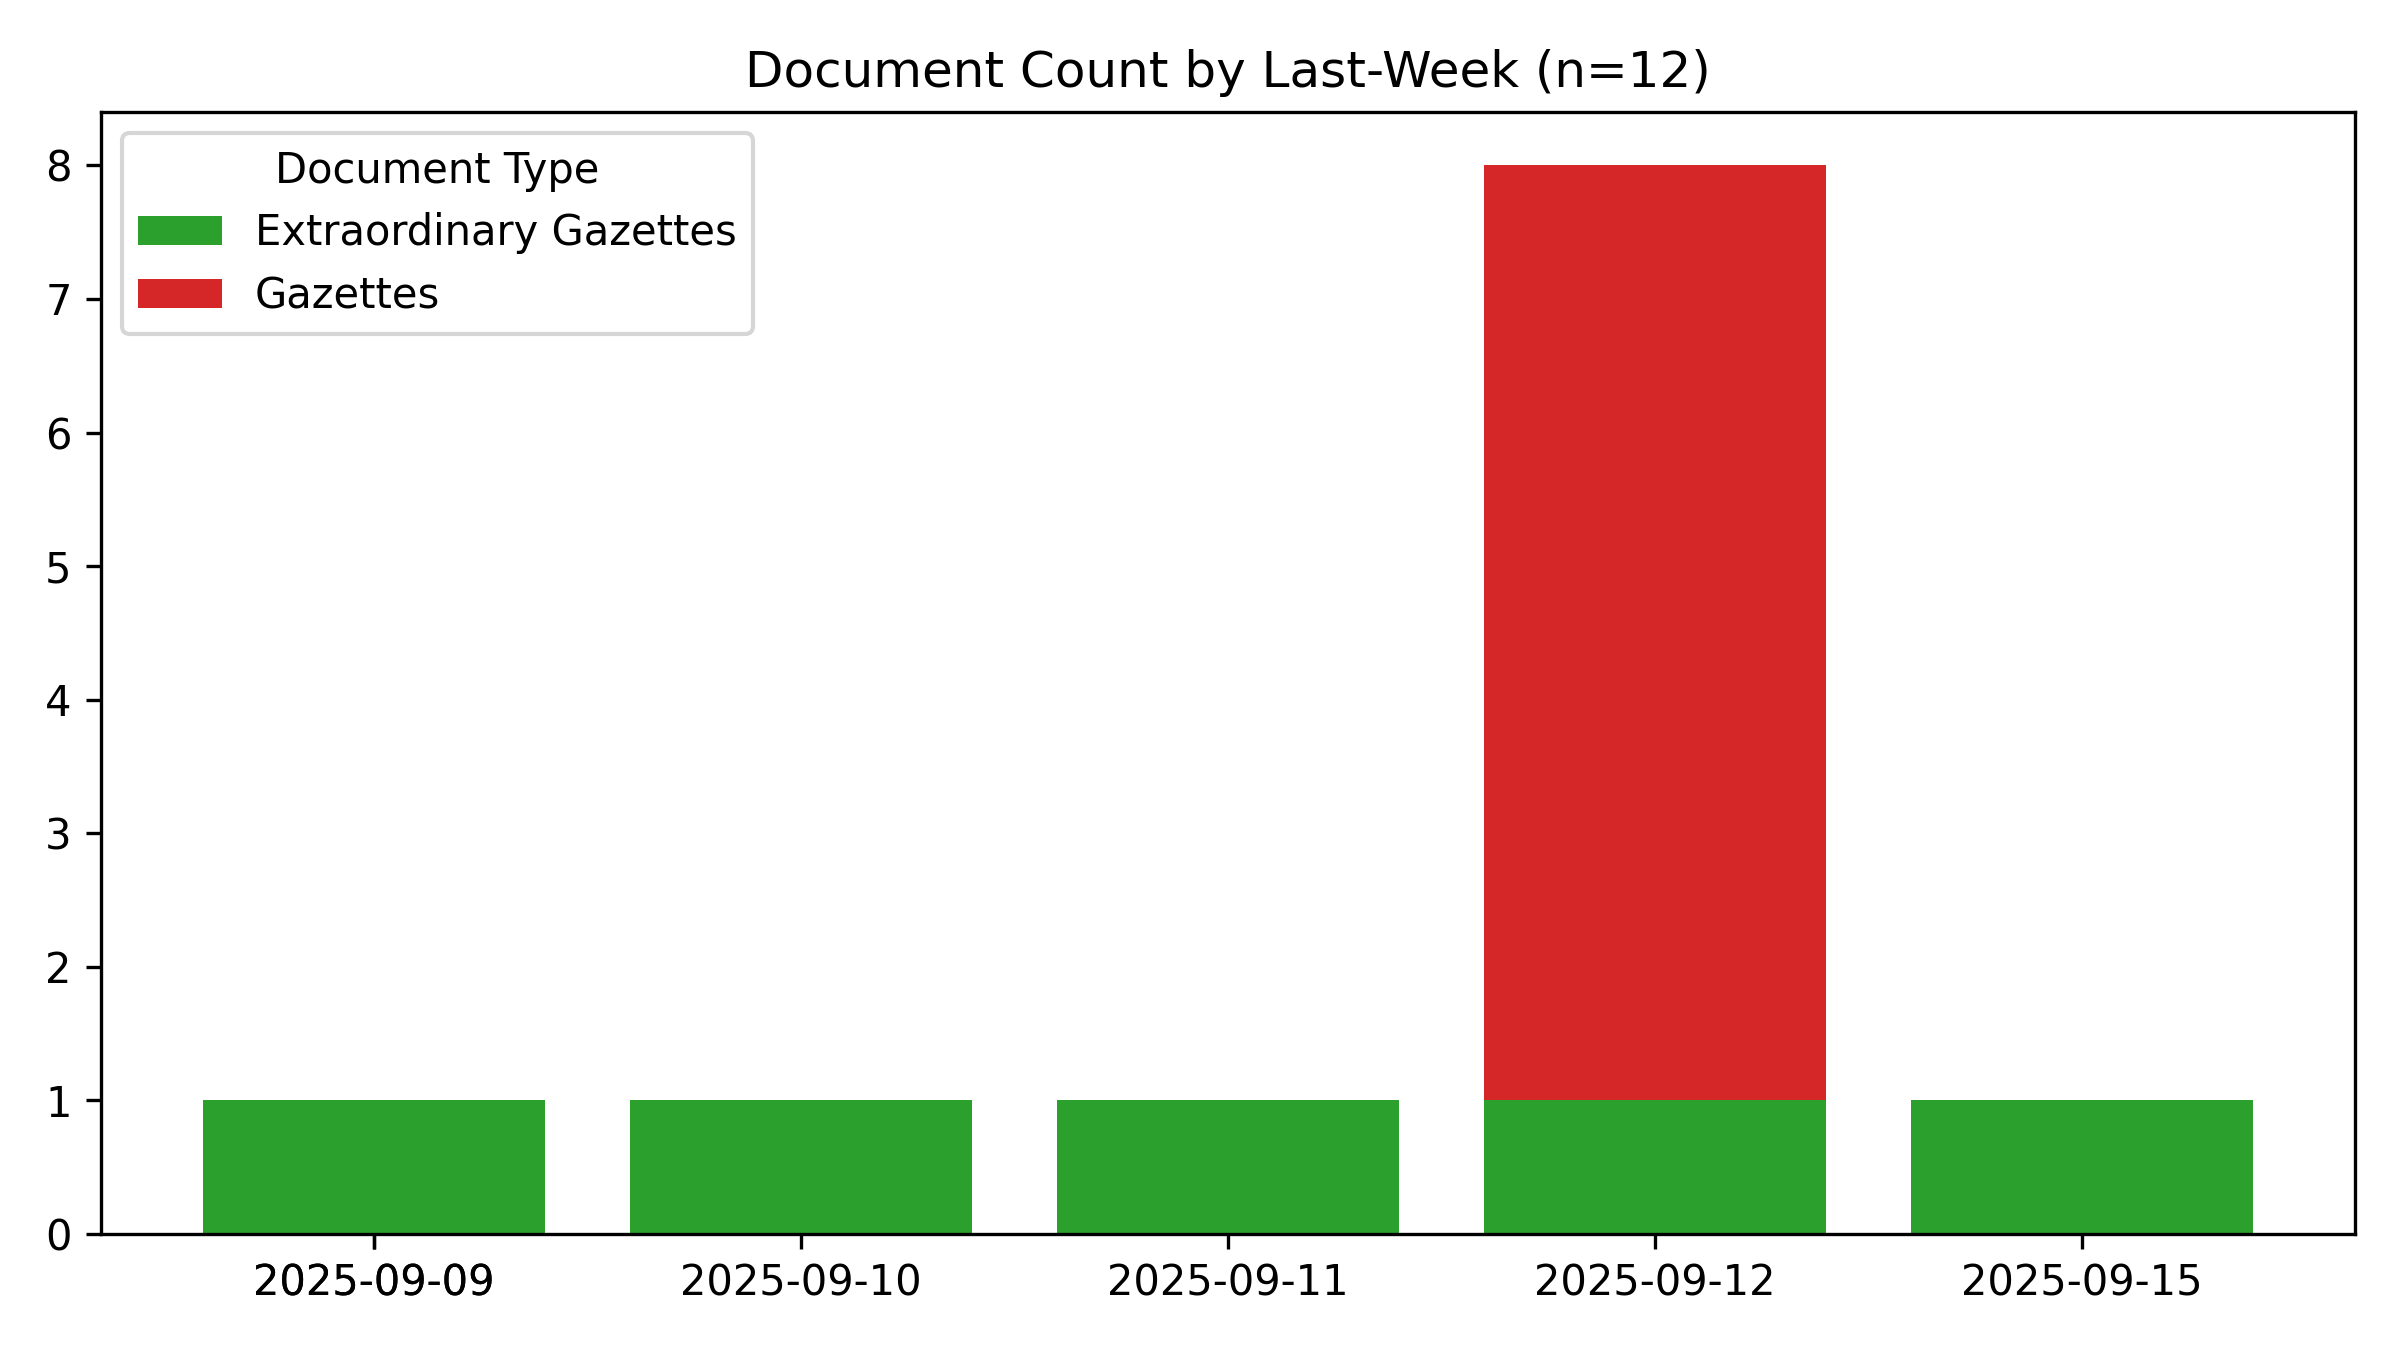
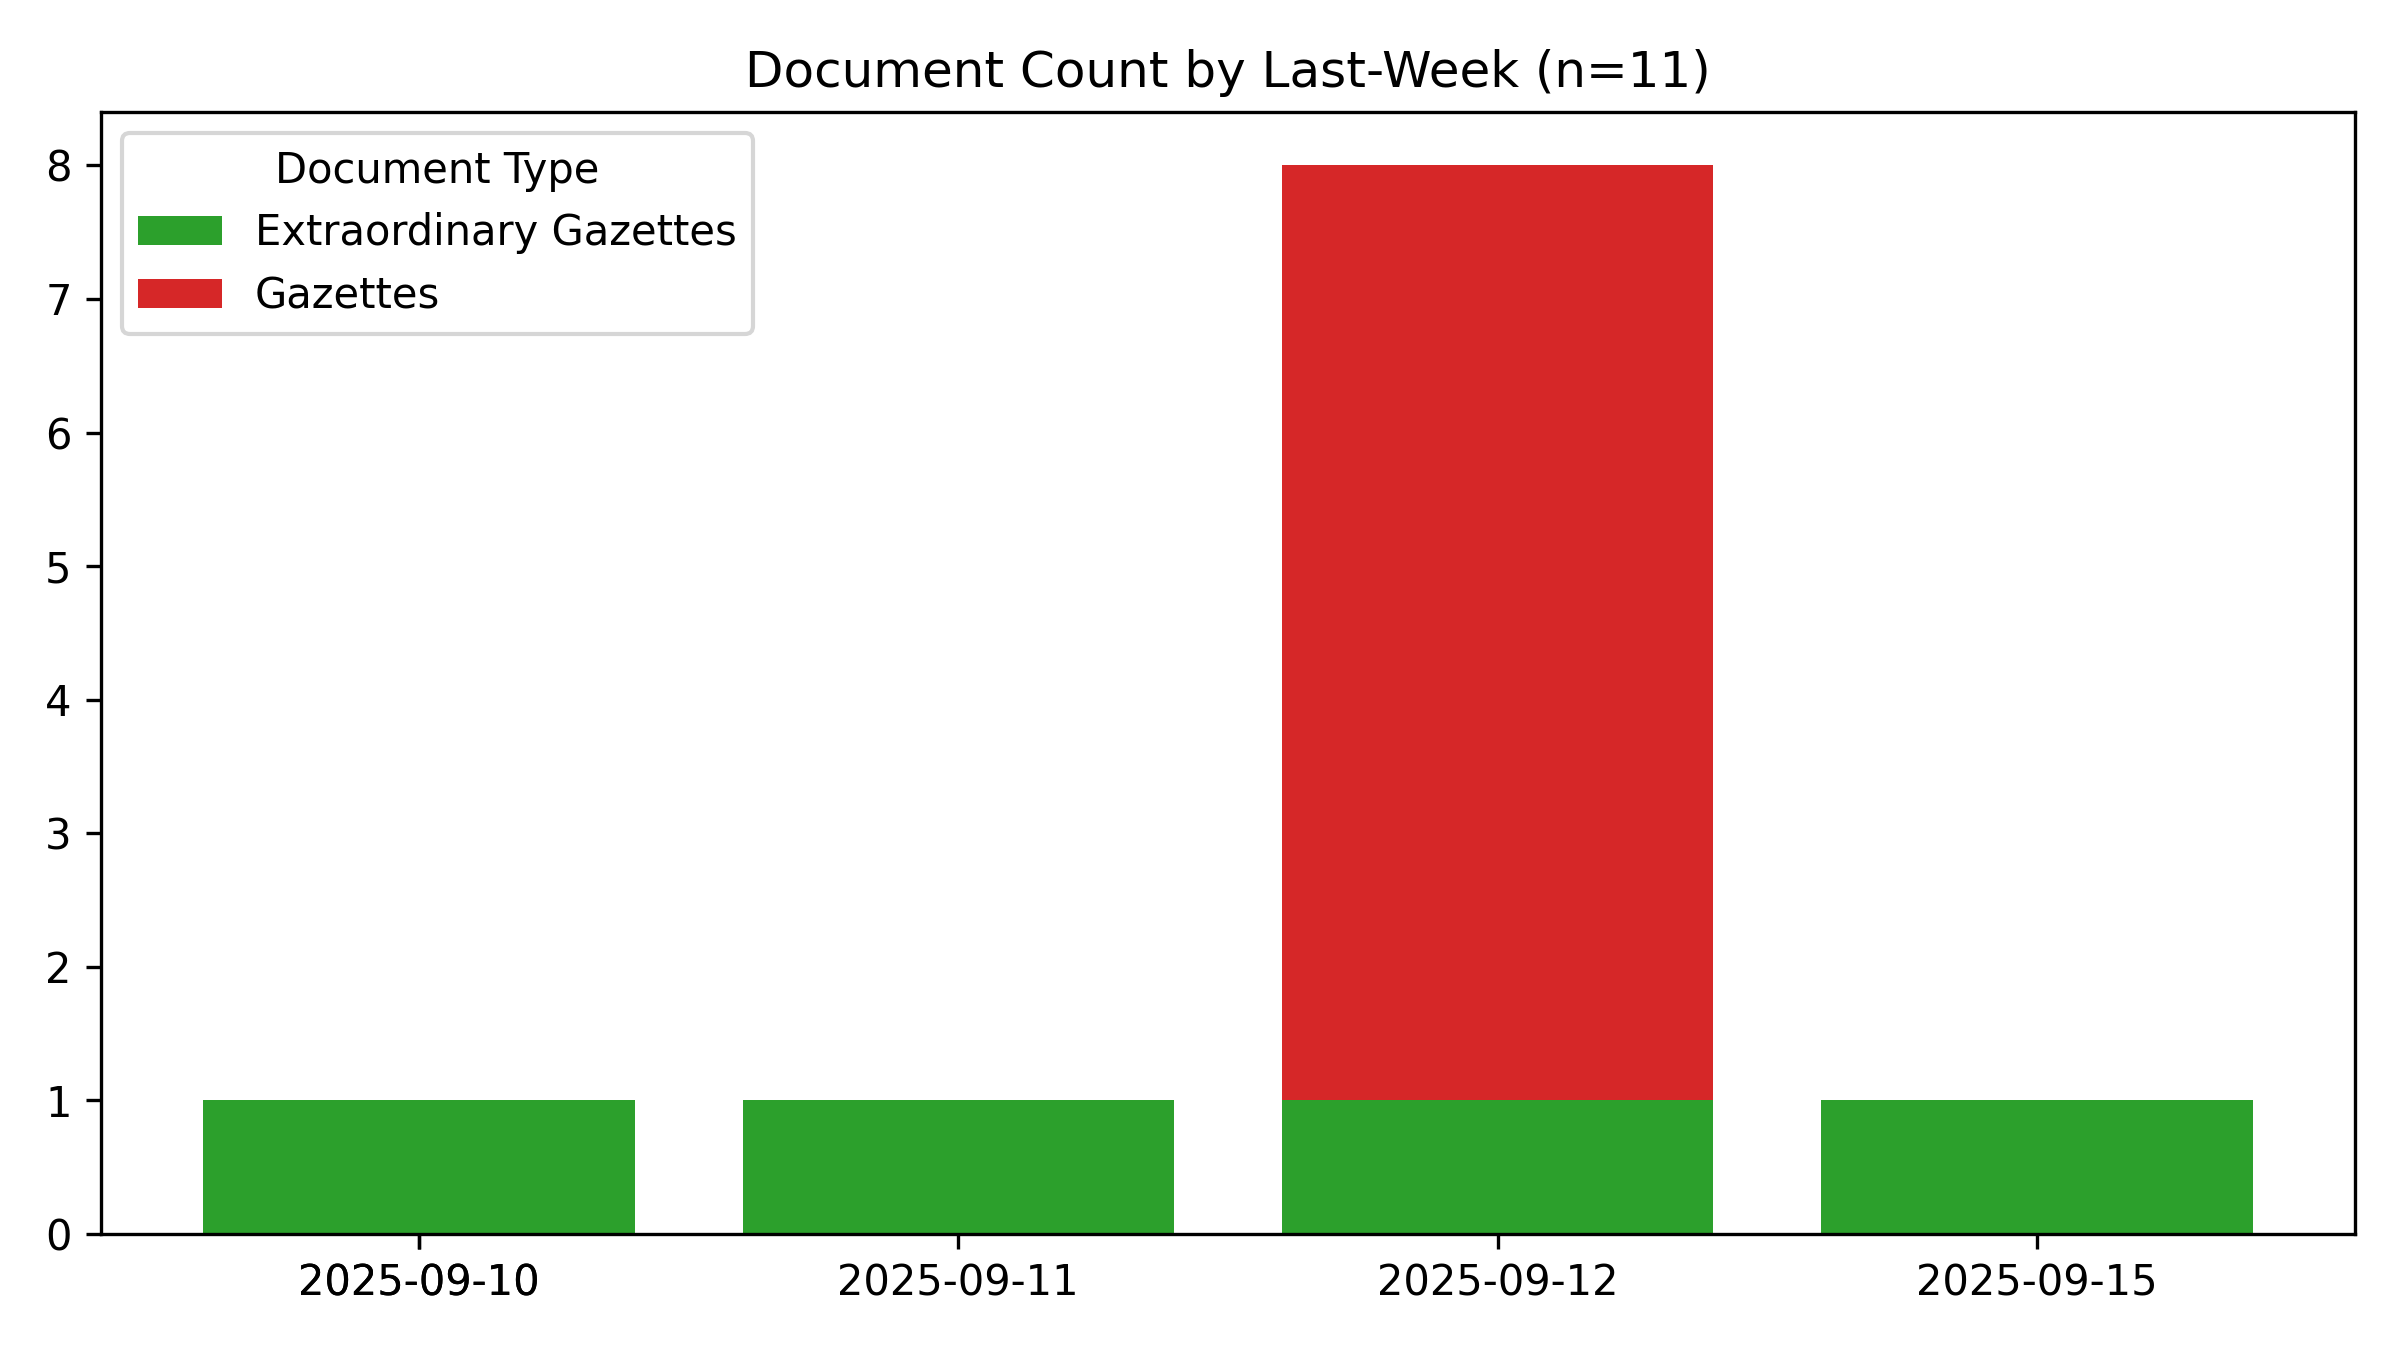
🤖 [build_readme.yml] 2025-09-17-0015

Changed region(s): [[0.2188, 0.1244, 0.9062, 0.9644], [0.0938, 0.9333, 0.2188, 0.9644], [0.6875, 0.0311, 0.7188, 0.0622]]

diff --git a/README.md b/README.md
@@ -1,6 +1,6 @@
 # #SriLanka 🇱🇰 - Legal Documents #Dataset
 
-*Last Updated **2025-09-17 05:12:34**.*
+*Last Updated **2025-09-17 05:45:07**.*
 
 **44,635** documents (24.4 MB), from 1981-01-22 to 2025-09-15.
 
@@ -54,7 +54,7 @@ For best results, use a desktop browser.
 
 ## Recent Documents (Published during the last 7 days)
 
-**12** Documents
+**11** Documents
 
 - 🚨 [2025-09-15] [2454/01](https://github.com/nuuuwan/lk_legal_docs_data/tree/data_2020s/data/extra-gazettes/2025/2454-01)
 - 🚨 [2025-09-12] [Office of the Public Service Commission - Service Minute of the Sri Lanka Education Administrative Service 6th Amenmdent](https://github.com/nuuuwan/lk_legal_docs_data/tree/data_2020s/data/extra-gazettes/2025/2453-34)
@@ -67,4 +67,3 @@ For best results, use a desktop browser.
 - 📢 [2025-09-12] [(I) - General](https://github.com/nuuuwan/lk_legal_docs_data/tree/data_2020s/data/gazettes/2025/2025-09-12-i-general)
 - 🚨 [2025-09-11] [2453/24](https://github.com/nuuuwan/lk_legal_docs_data/tree/data_2020s/data/extra-gazettes/2025/2453-24)
 - 🚨 [2025-09-10] [2453/22](https://github.com/nuuuwan/lk_legal_docs_data/tree/data_2020s/data/extra-gazettes/2025/2453-22)
-- 🚨 [2025-09-09] [Public Utilities Commission of Sri Lanka - Revised Expenditure Budget - 2025](https://github.com/nuuuwan/lk_legal_docs_data/tree/data_2020s/data/extra-gazettes/2025/2453-16)
